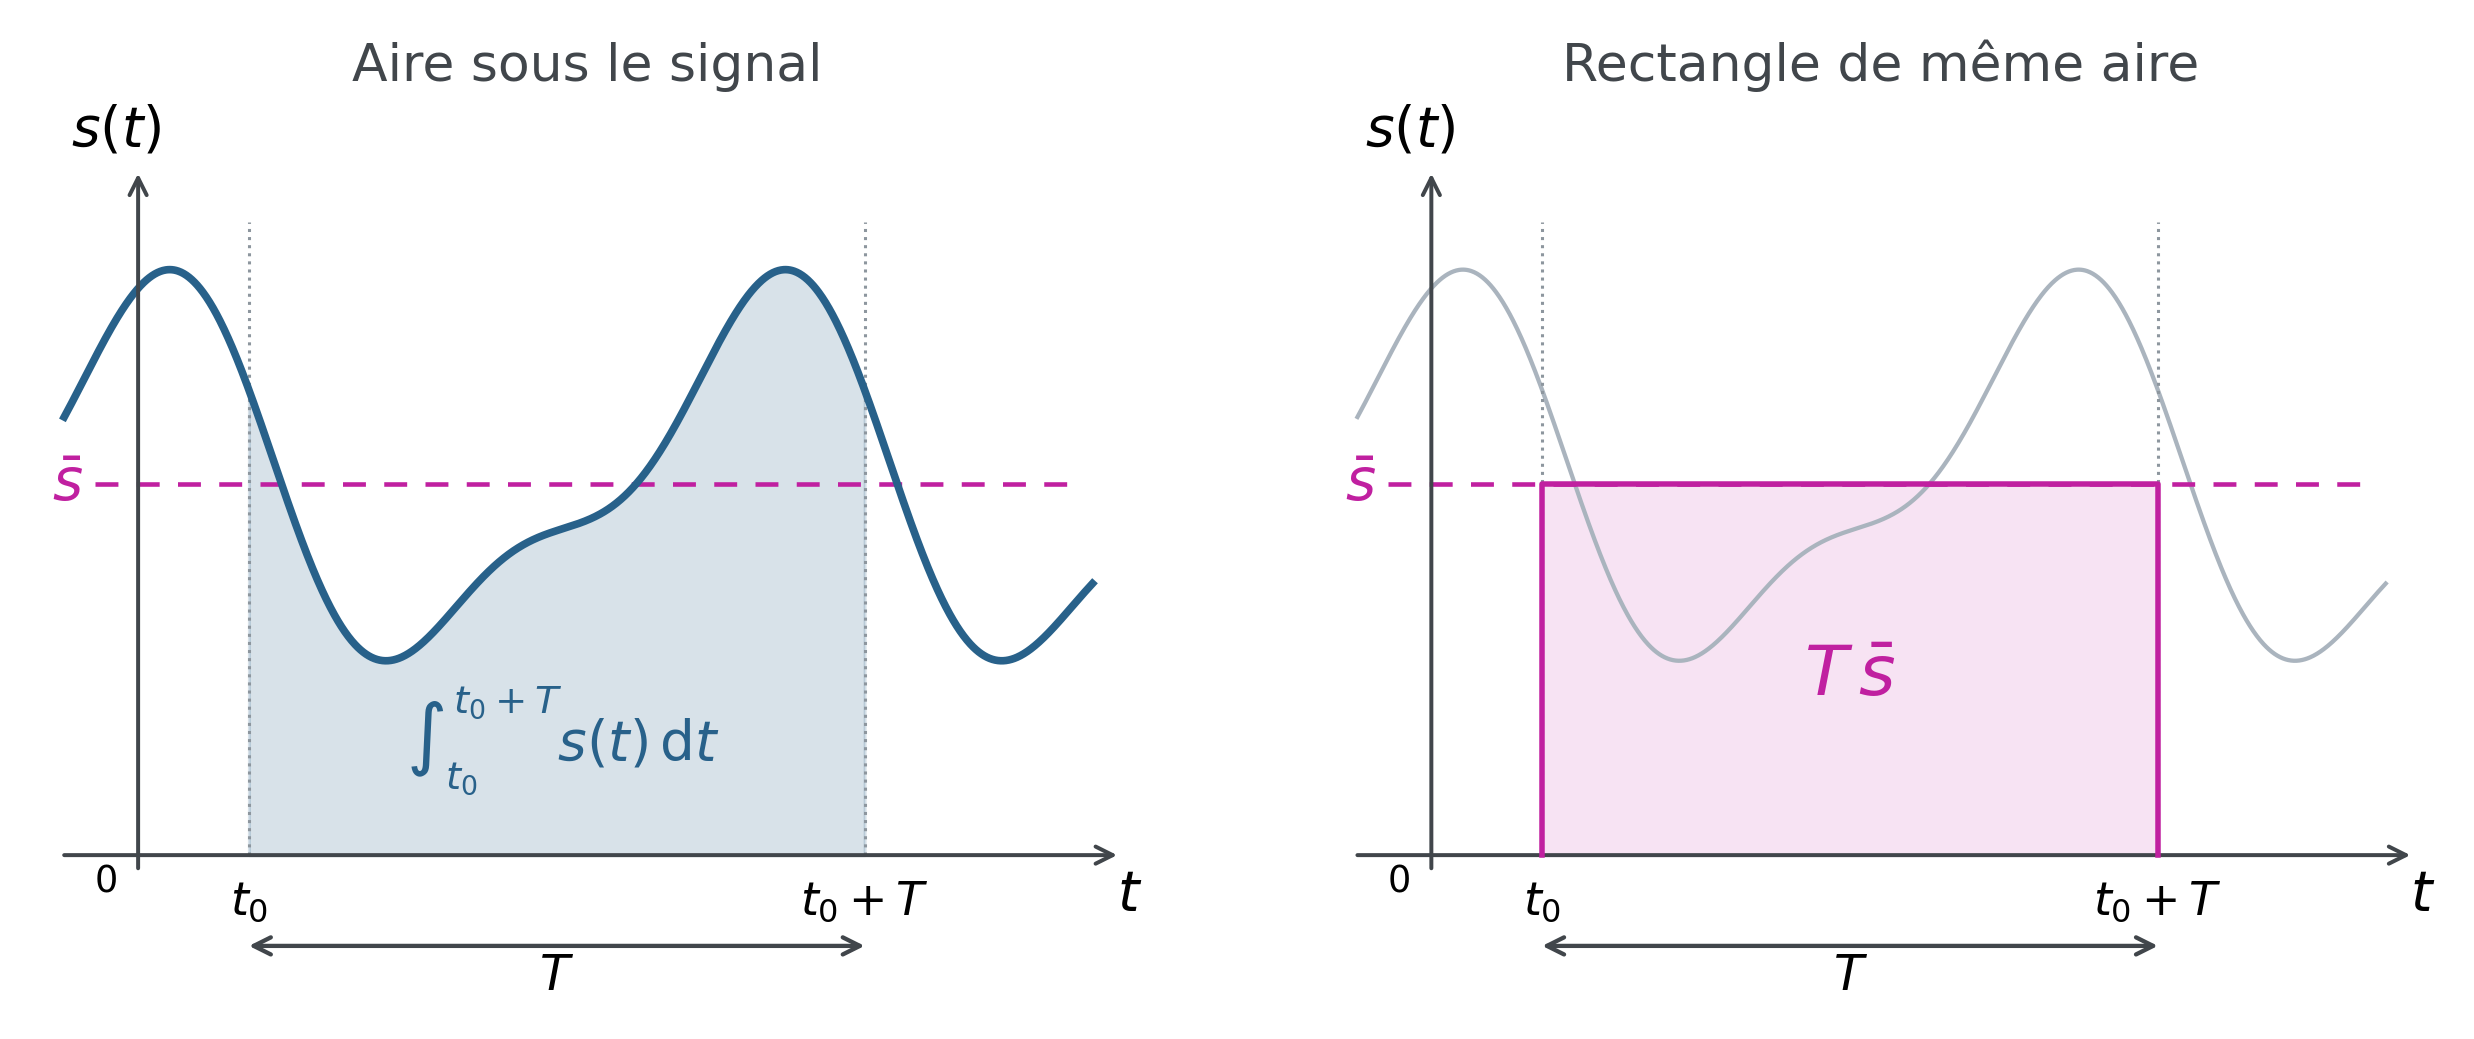
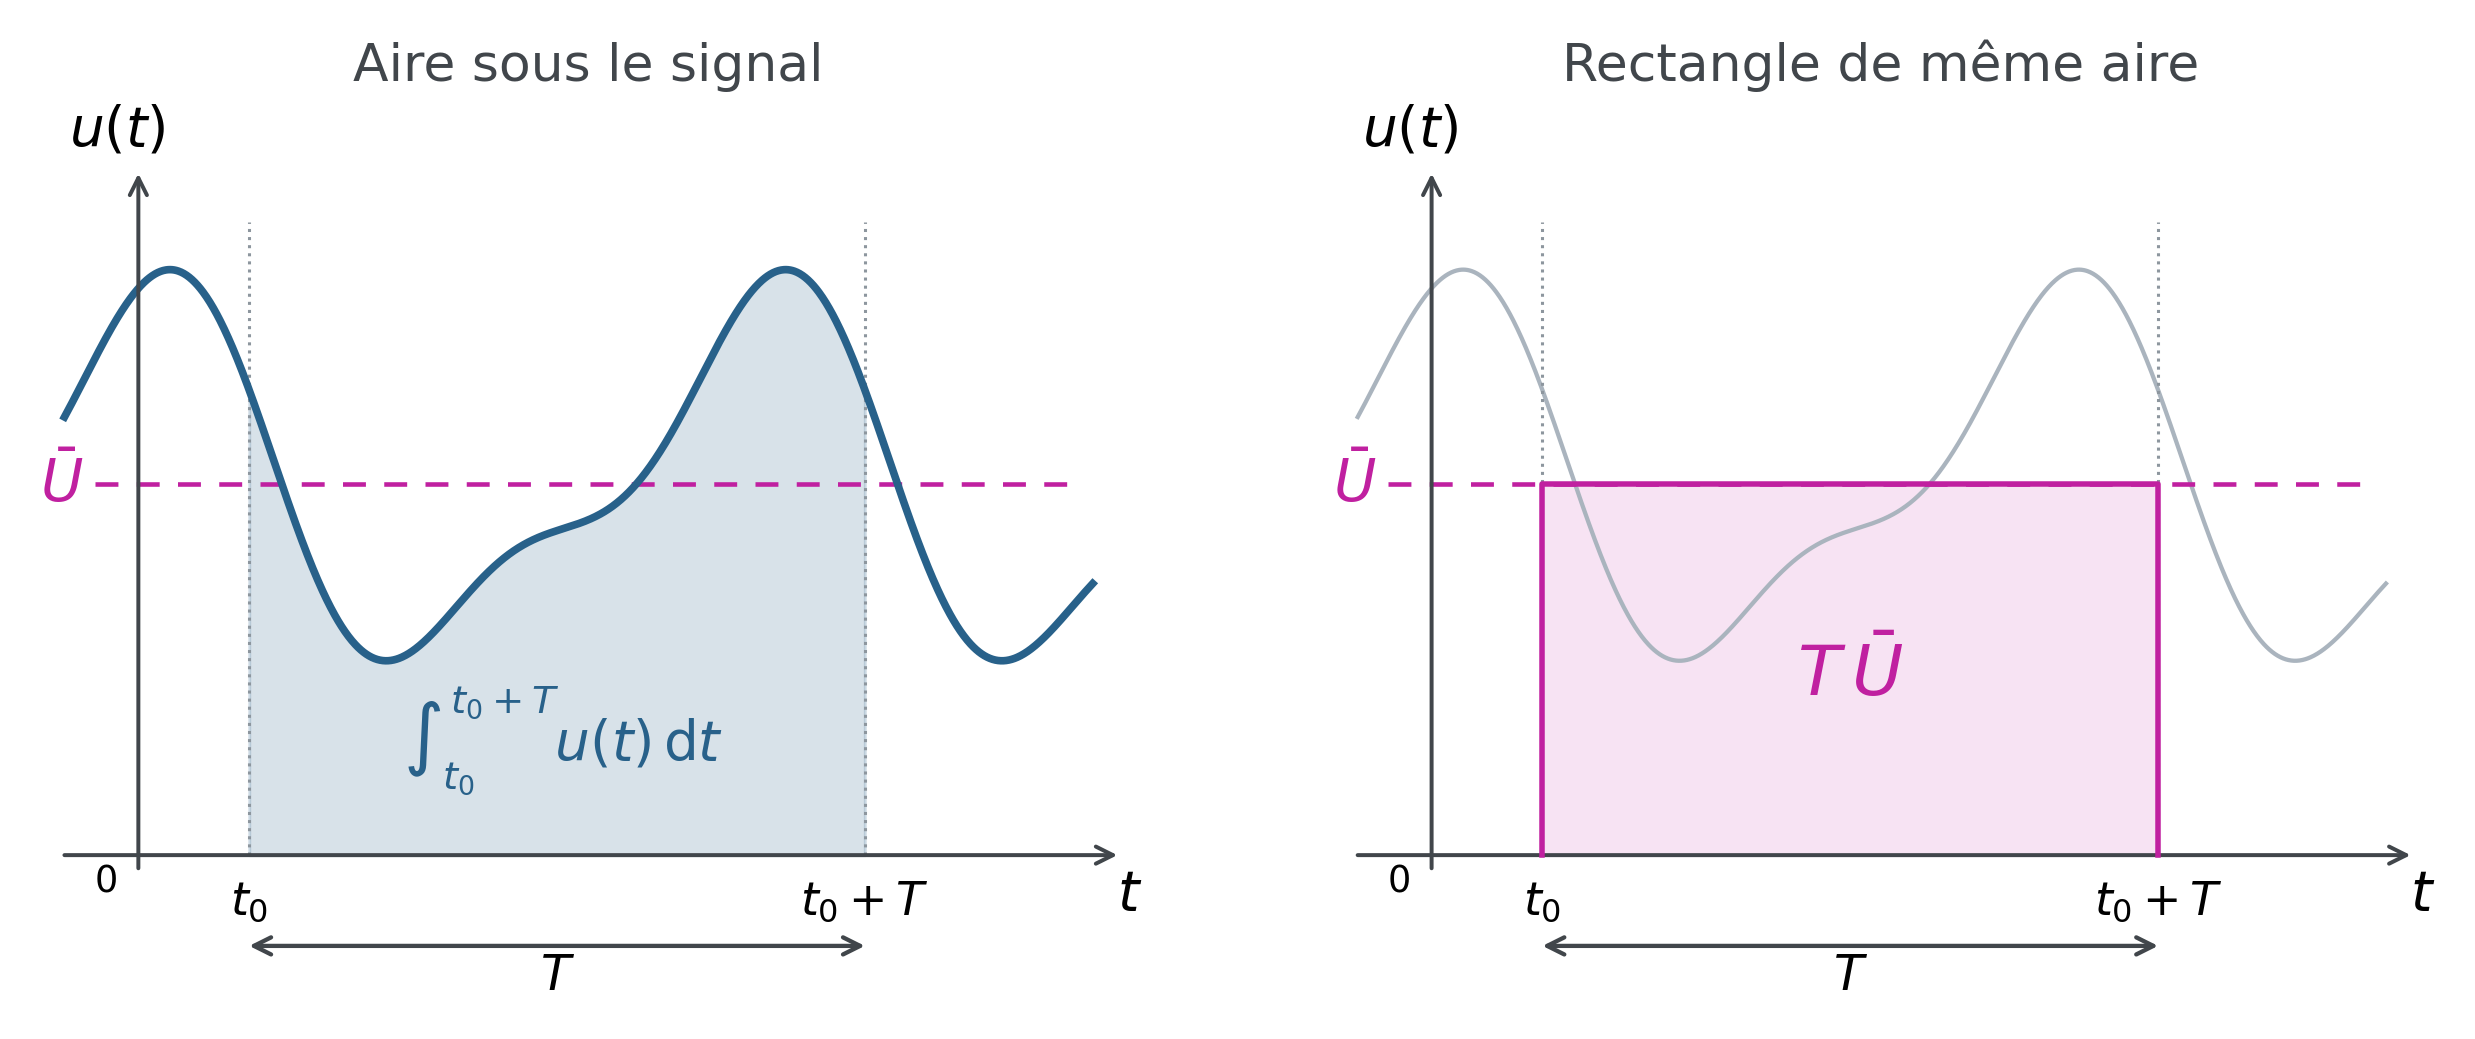
update Oscillo_fig_moyenne.py to include the new function for averaging signals and saving the output as a PNG file. The previous version of the script has been modified to improve performance and readability.

diff --git a/phyexp2DL/Oscillo_fig_moyenne.py b/phyexp2DL/Oscillo_fig_moyenne.py
@@ -1,0 +1,48 @@
+"""Valeur moyenne d'un signal périodique : égalité des aires sur une période."""
+from pathlib import Path
+import numpy as np
+import matplotlib
+matplotlib.use('Agg')
+import matplotlib.pyplot as plt
+
+plt.rcParams.update({'font.family':'DejaVu Sans','font.size':14,
+                     'mathtext.fontset':'dejavusans','svg.fonttype':'none'})
+blue, magenta, gray = '#28618A','#C020A0','#41464B'
+T, t0, mean = 1.0, .18, 1.35
+
+def signal(t):
+    return mean + .60*np.cos(2*np.pi*t) + .23*np.sin(4*np.pi*t+.5)
+
+t=np.linspace(-.12,1.55,1500)
+inside=np.linspace(t0,t0+T,1000)
+fig,axes=plt.subplots(1,2,figsize=(12,5.1))
+fig.subplots_adjust(left=.065,right=.97,bottom=.12,top=.88,wspace=.18)
+for ax in axes:
+    ax.set(xlim=(-.16,1.62),ylim=(-.45,2.65))
+    ax.axis('off')
+    ax.annotate('',(1.6,0),(-.13,0),arrowprops=dict(arrowstyle='->',lw=1.3,color=gray))
+    ax.annotate('',(0,2.50),(0,-.07),arrowprops=dict(arrowstyle='->',lw=1.3,color=gray))
+    ax.text(-.035,2.54,'$u(t)$',ha='center',va='bottom',fontsize=18)
+    ax.text(1.61,-.045,'$t$',ha='center',va='top',fontsize=18)
+    ax.text(-.035,-.025,'$0$',ha='right',va='top',fontsize=12)
+    for x,label in [(t0,'$t_0$'),(t0+T,'$t_0+T$')]:
+        ax.vlines(x,0,2.30,color='#8D969E',linestyle=':',lw=1)
+        ax.text(x,-.085,label,ha='center',va='top',fontsize=15)
+    ax.annotate('',(t0+T,-.33),(t0,-.33),arrowprops=dict(arrowstyle='<->',lw=1.4,color=gray,shrinkA=0,shrinkB=0))
+    ax.text(t0+T/2,-.35,'$T$',ha='center',va='top',fontsize=16)
+    ax.hlines(mean,-.07,1.51,linestyle=(0,(5,4)),color=magenta,lw=1.5)
+    ax.text(-.09,mean,r'$\bar{U}$',color=magenta,ha='right',va='center',fontsize=19)
+
+axes[0].fill_between(inside,0,signal(inside),color=blue,alpha=.18,zorder=0)
+axes[0].plot(t,signal(t),color=blue,lw=2.5)
+axes[0].text(.69,.35,r'$\int_{t_0}^{t_0+T} u(t)\,\mathrm{d}t$',color=blue,ha='center',fontsize=18)
+axes[1].plot(t,signal(t),color='#AAB4BE',lw=1.4,zorder=1)
+axes[1].fill_between(inside,0,mean,color=magenta,alpha=.12,zorder=0)
+axes[1].plot([t0,t0,t0+T,t0+T],[0,mean,mean,0],color=magenta,lw=1.8,zorder=3)
+axes[1].text(.68,.58,r'$T\,\bar{U}$',color=magenta,ha='center',fontsize=23)
+axes[0].set_title('Aire sous le signal',fontsize=17,color=gray,pad=15)
+axes[1].set_title('Rectangle de même aire',fontsize=17,color=gray,pad=15)
+out=Path(__file__).resolve().parent
+for ext in ('png','svg','pdf'):
+    fig.savefig(out/f'valeur_moyenne.{ext}',dpi=220,bbox_inches='tight',facecolor='white',pad_inches=.18)
+print(out/'valeur_moyenne.png')
